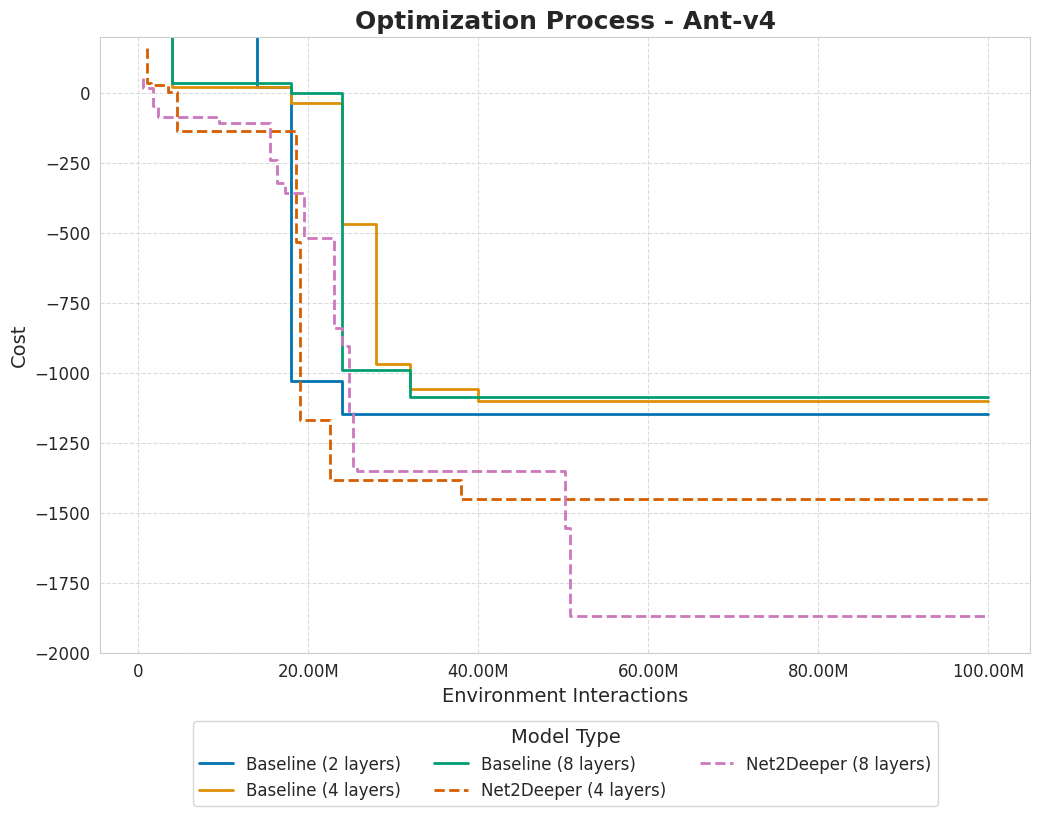
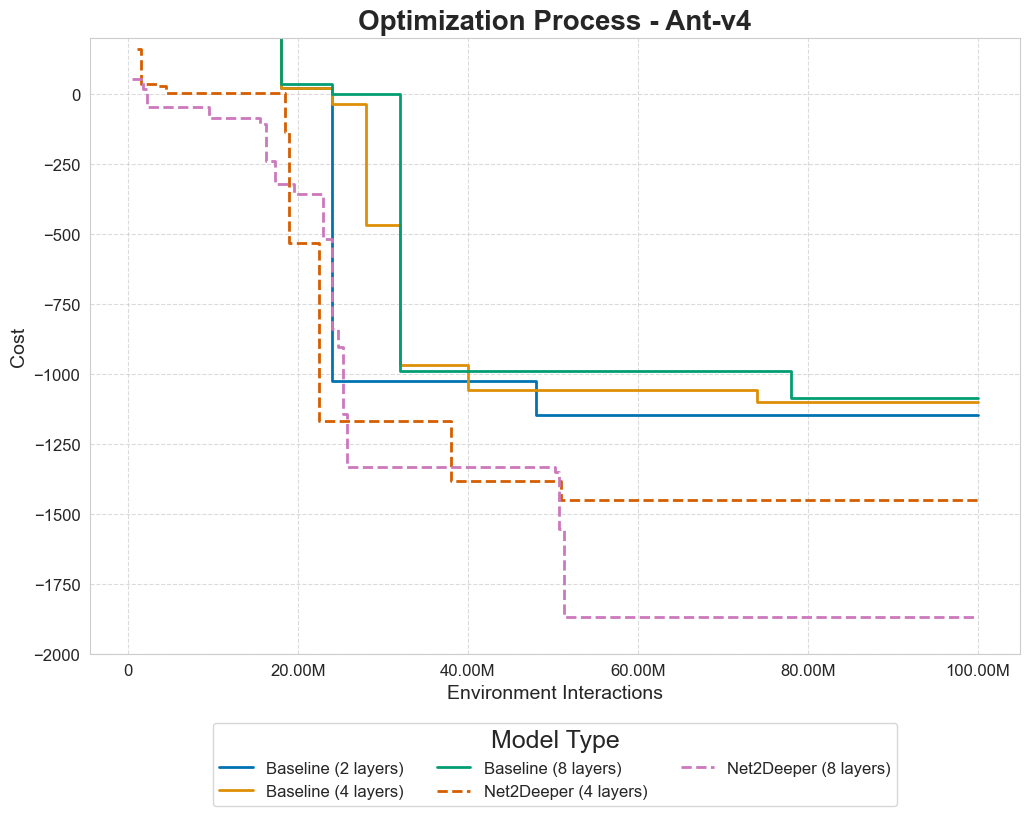
Update plots and add budget correlations

diff --git a/plotting/ant/overall_training_process/plot_training_process.py b/plotting/ant/overall_training_process/plot_training_process.py
@@ -57,12 +57,12 @@ def plot_one_million_interactions():
 
     for approach_name, data in baseline_data.items():
         # The environment interactions column appears to be buggy
-        sns.lineplot(x="environment_interactions", y="cost", data=data, label=f"{approach_name}", drawstyle="steps-pre", linestyle="solid")
+        sns.lineplot(x="environment_interactions", y="cost", data=data, label=f"{approach_name}", drawstyle="steps-post", linestyle="solid")
 
     line_styles = ["dashed", "dashdot"]
     line_number = 0
     for approach_name, data in appraoch_data.items():
-        sns.lineplot(x="environment_interactions", y="cost", data=data, label=f"{approach_name}", drawstyle="steps-pre", linestyle=line_styles[line_number])
+        sns.lineplot(x="environment_interactions", y="cost", data=data, label=f"{approach_name}", drawstyle="steps-post", linestyle=line_styles[line_number])
 
     plt.title("Optimization Process - Ant-v4", fontsize=20, fontweight="bold")
     plt.xlabel("Environment Interactions", fontsize=14)
